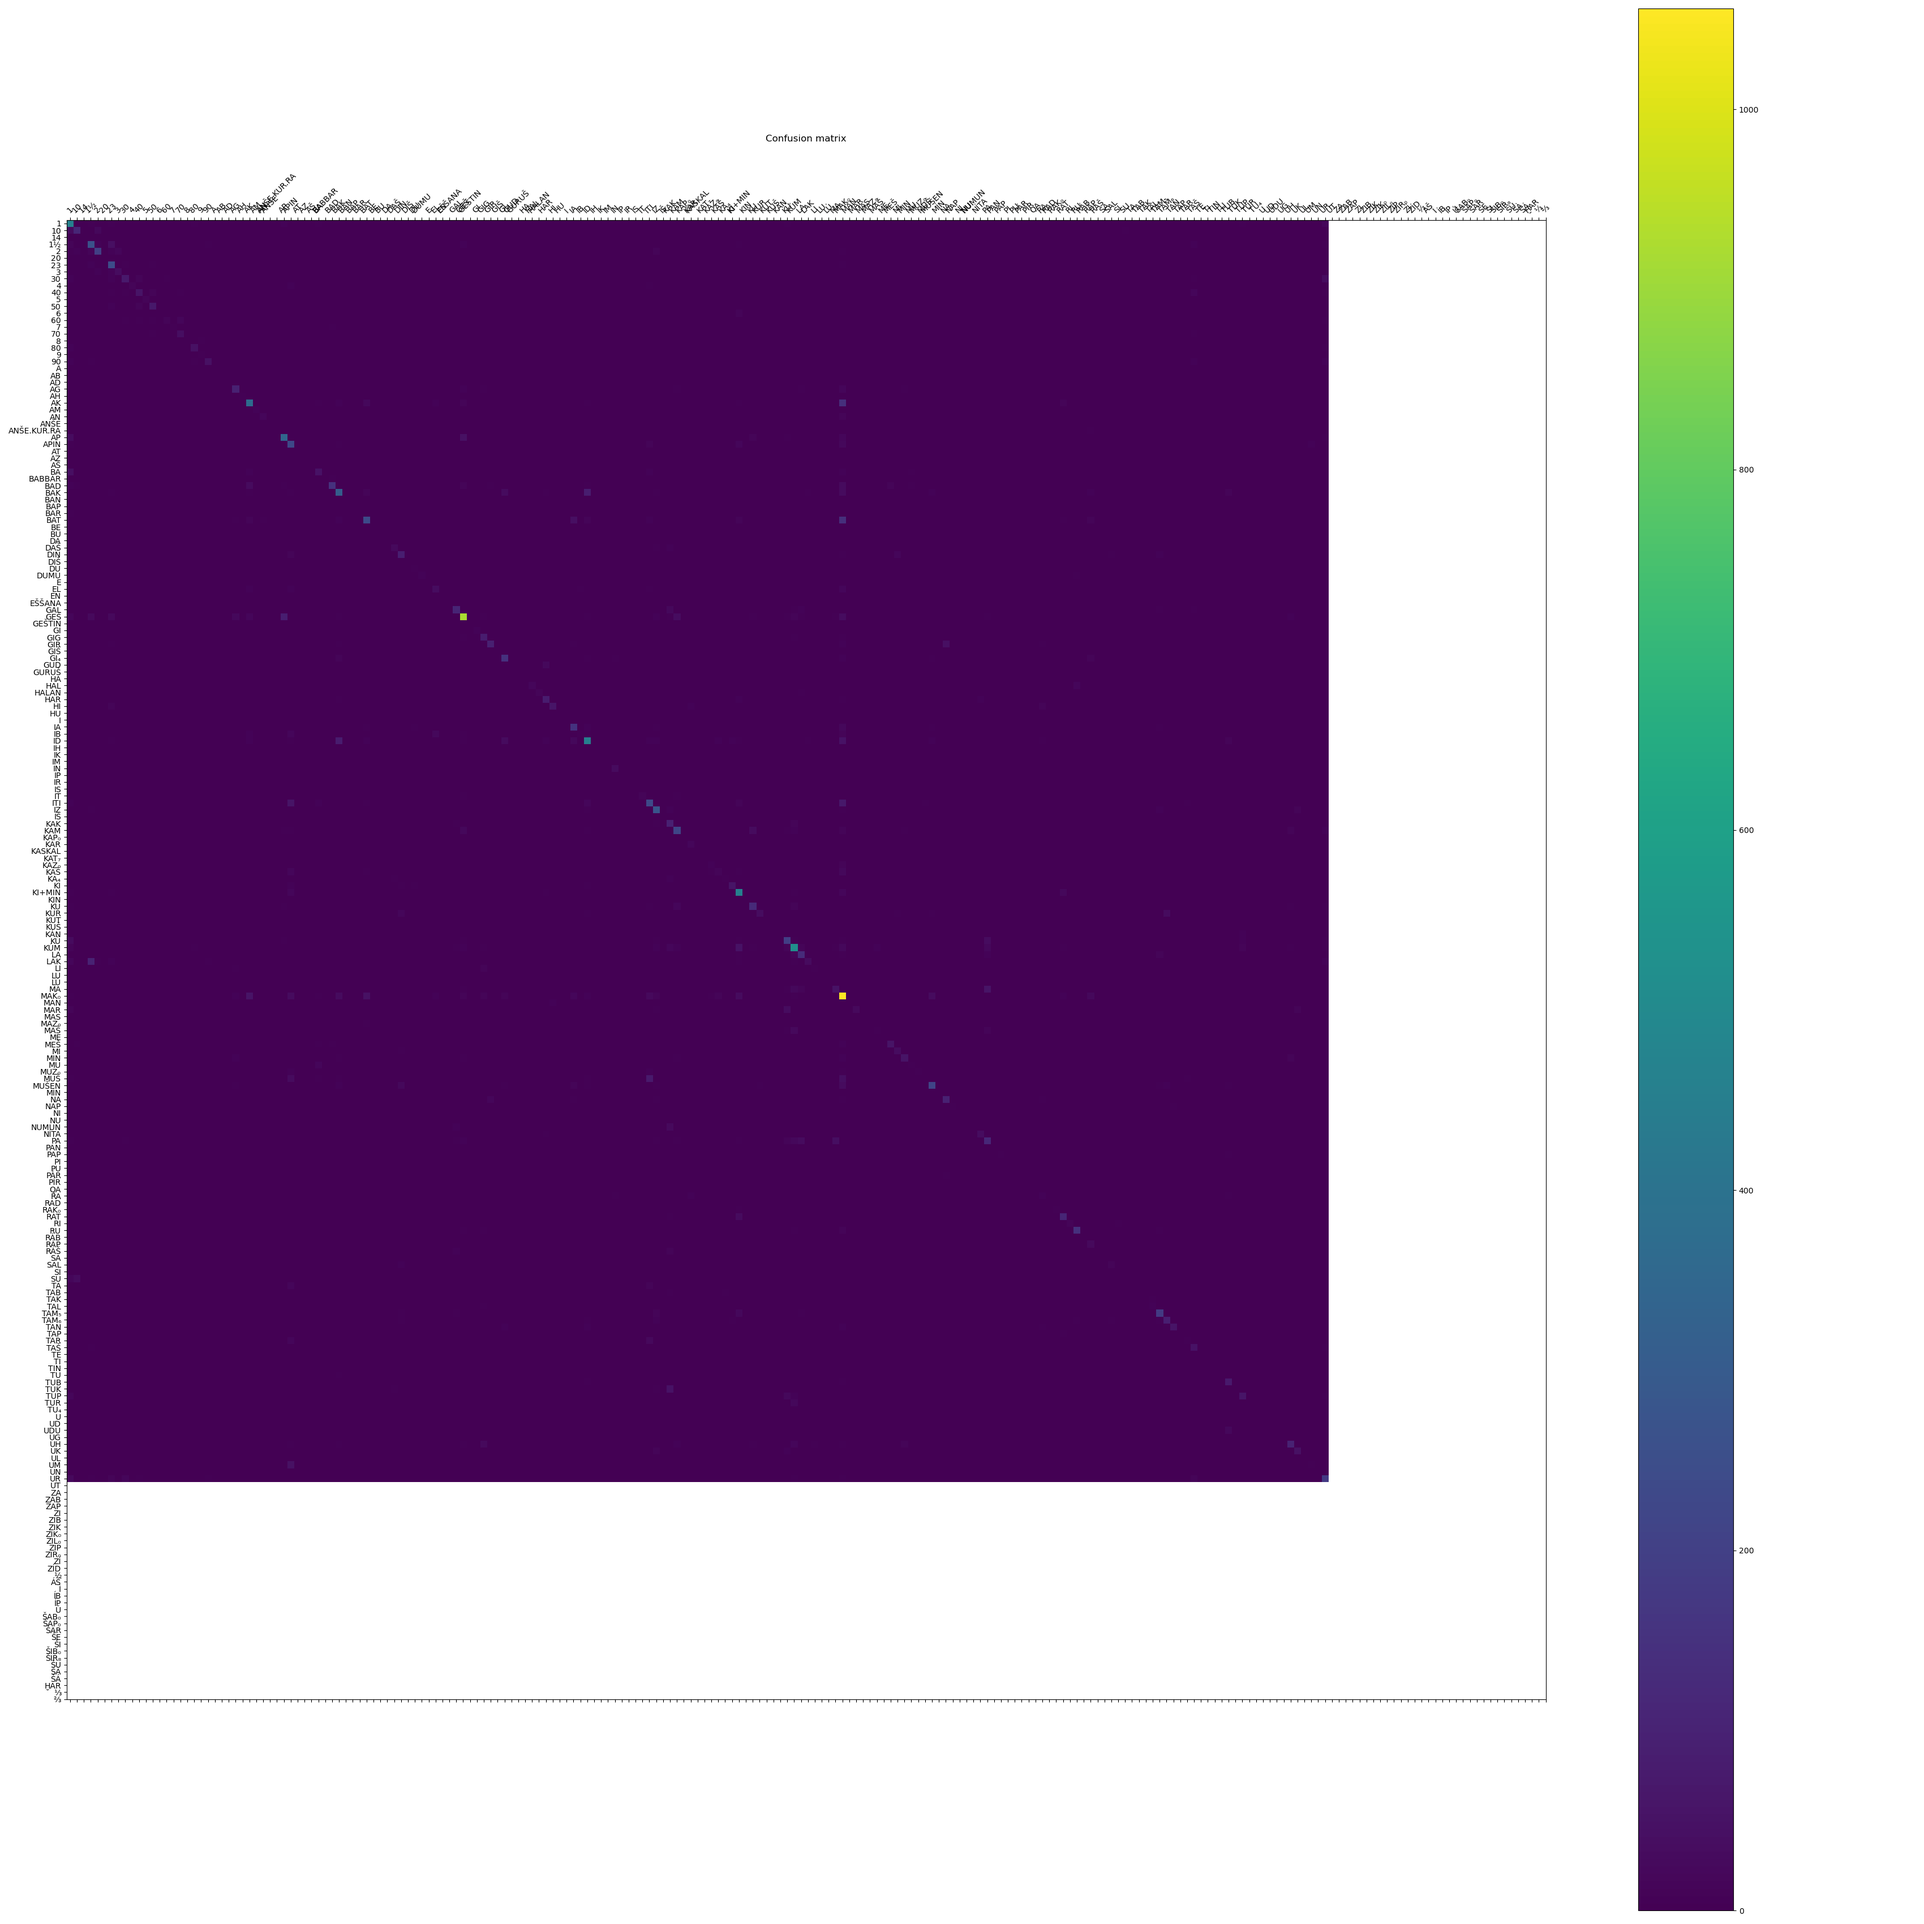
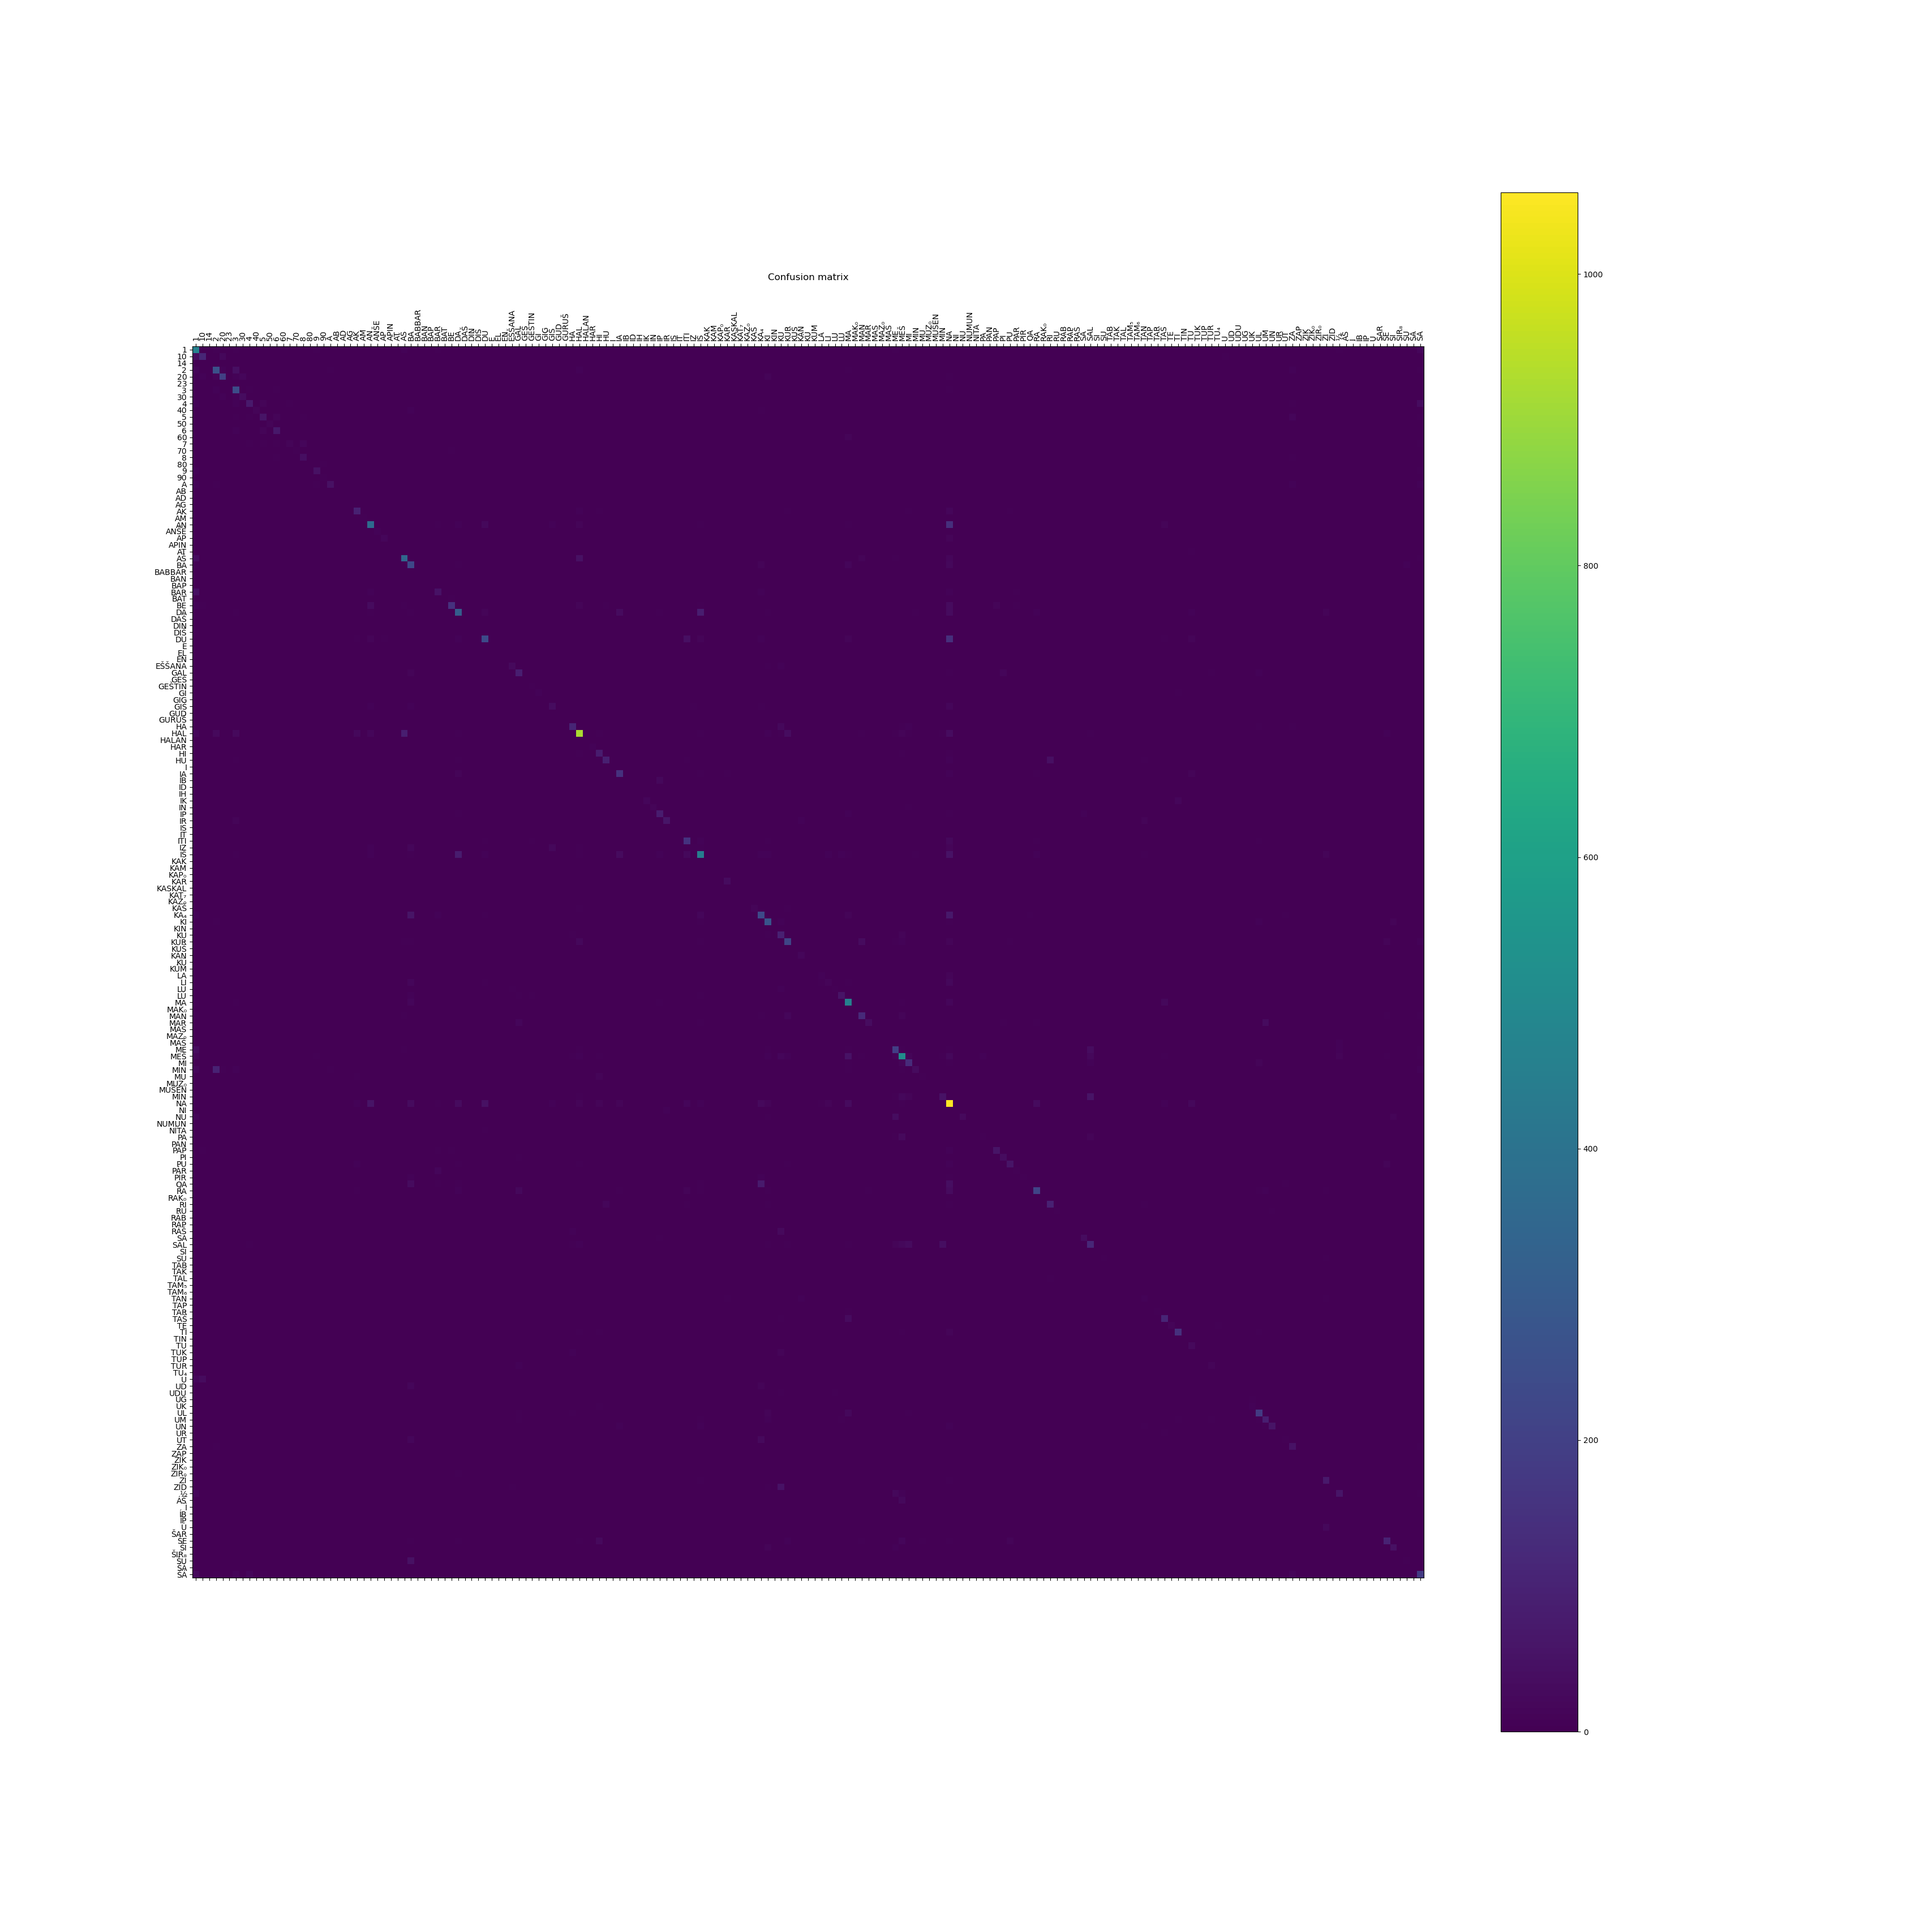
fixed confusion matrix

Changed region(s): [[0.0, 0.0935, 0.7482, 0.8418], [0.7482, 0.0, 0.9041, 0.9976]]

diff --git a/analysis.py b/analysis.py
@@ -78,19 +78,25 @@ def show_reports(npz_file, encoding_file, model_path):
 
     ####### plot_confusion_matrix #################################
     confusion = confusion_matrix(y_test_list, y_pred_list)
-    
     fig = plt.figure(figsize=(34, 34))
-    ax = fig.add_subplot(111)
+    rect = 0.1, 0.1, 0.8, 0.8
+    ax = fig.add_axes(rect)
     plt.title("Confusion matrix")
     cax = ax.matshow(confusion)
     fig.colorbar(cax)
 
-    ax.set_xticks(range(len(symbol_names)))
-    ax.set_yticks(range(len(symbol_names)))
+    # Use confusion matrix label order as label mapping
+    class_keys = classification_report(y_test_list, y_pred_list, output_dict=True)
+    class_keys.pop('accuracy', None)
+    class_keys.pop('macro avg', None)
+    class_keys.pop('weighted avg', None)
+    class_keys = list(class_keys.keys())
+
+    ax.set_xticks(range(len(class_keys)))
+    ax.set_yticks(range(len(class_keys)))
     # appending extra tick label to make sure everything aligns properly
-    ax.set_xticklabels(symbol_names, rotation=45)
-    ax.set_yticklabels(symbol_names)
-    plt.tight_layout()
+    ax.set_xticklabels(class_keys, rotation=90)
+    ax.set_yticklabels(class_keys)
     filename = "records/confusion_matrix_" + date.today().strftime("%m%d%y") + ".png"
     plt.savefig(filename)
     

diff --git a/main.py b/main.py
@@ -13,7 +13,7 @@ def run():
     # X = np.load("output/imgs_gray.npy")
     # y = np.load("output/labels_gray.npy")
     # neural_network.train(X, y, "output/resnet18_073120.h5")
-    analysis.show_reports("output/split_data_resnet18_080520_tf2_lastDropOut075.npz", "output/label_encoding_073120.npy", "output/resnet18_080520_tf2_lastDropOut075.h5")
+    analysis.show_reports("output/split_data_resnet18_080120_tf2.npz", "output/label_encoding_073120.npy", "output/resnet18_080120_tf2.h5")
     # analysis.get_training_curves("records/training_output_resnet18_080520_tf2_lastDropOut075.txt", 20, 213)
 
     # Code to build mnist model:
